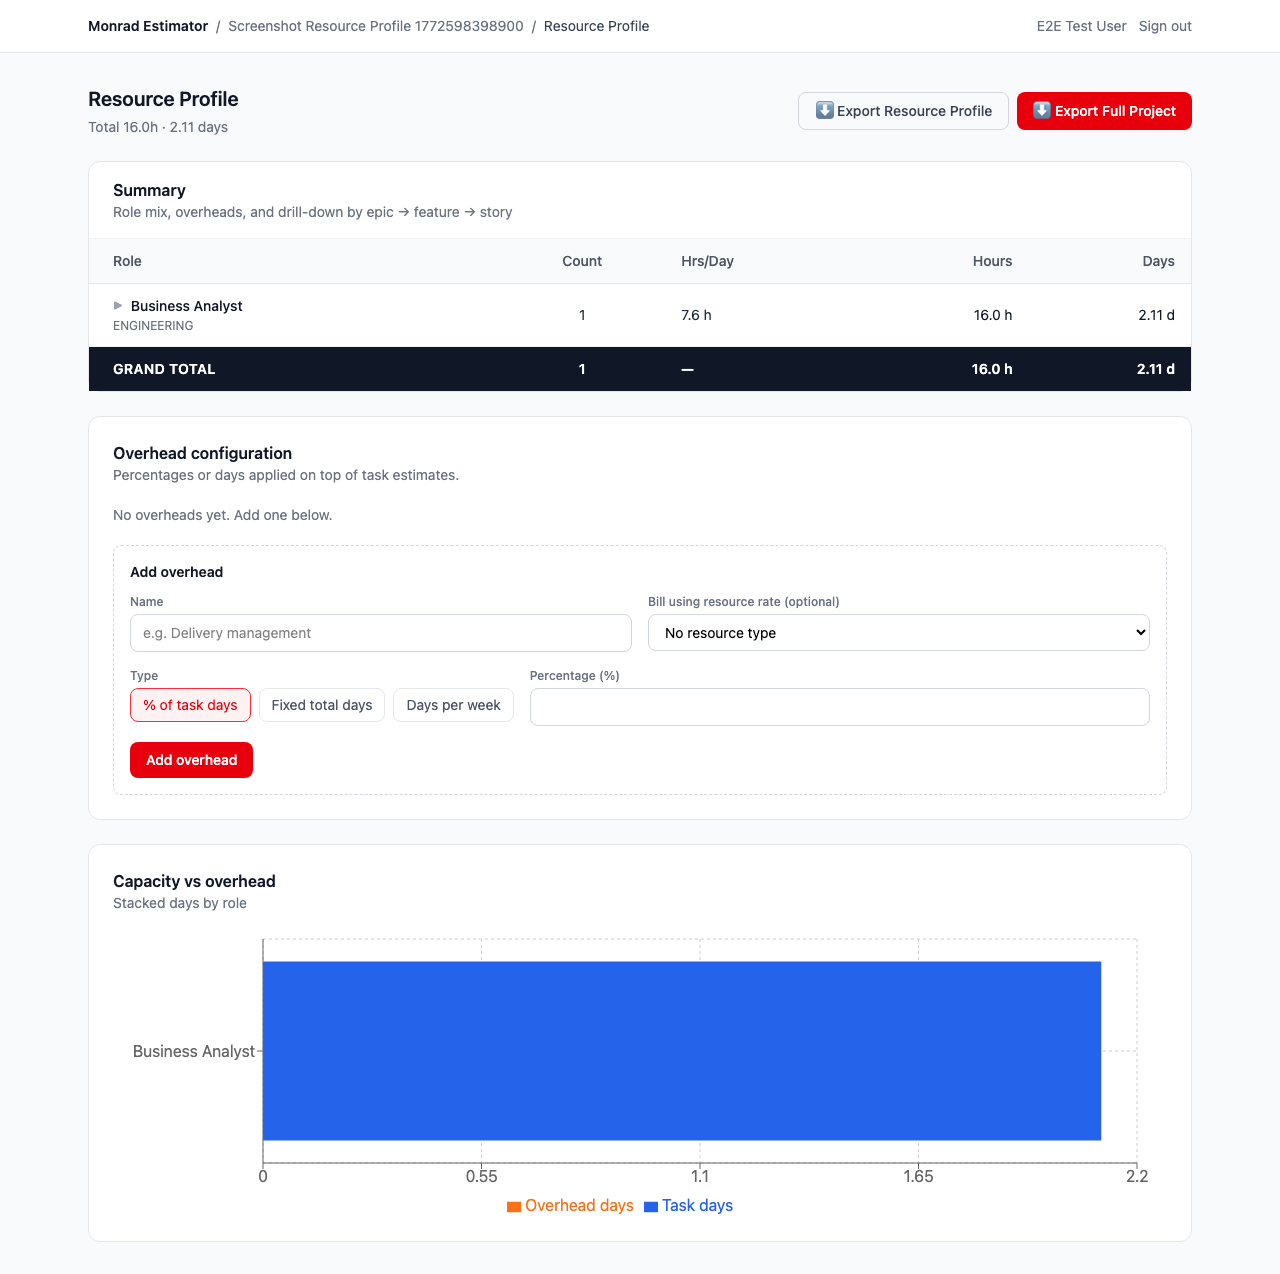
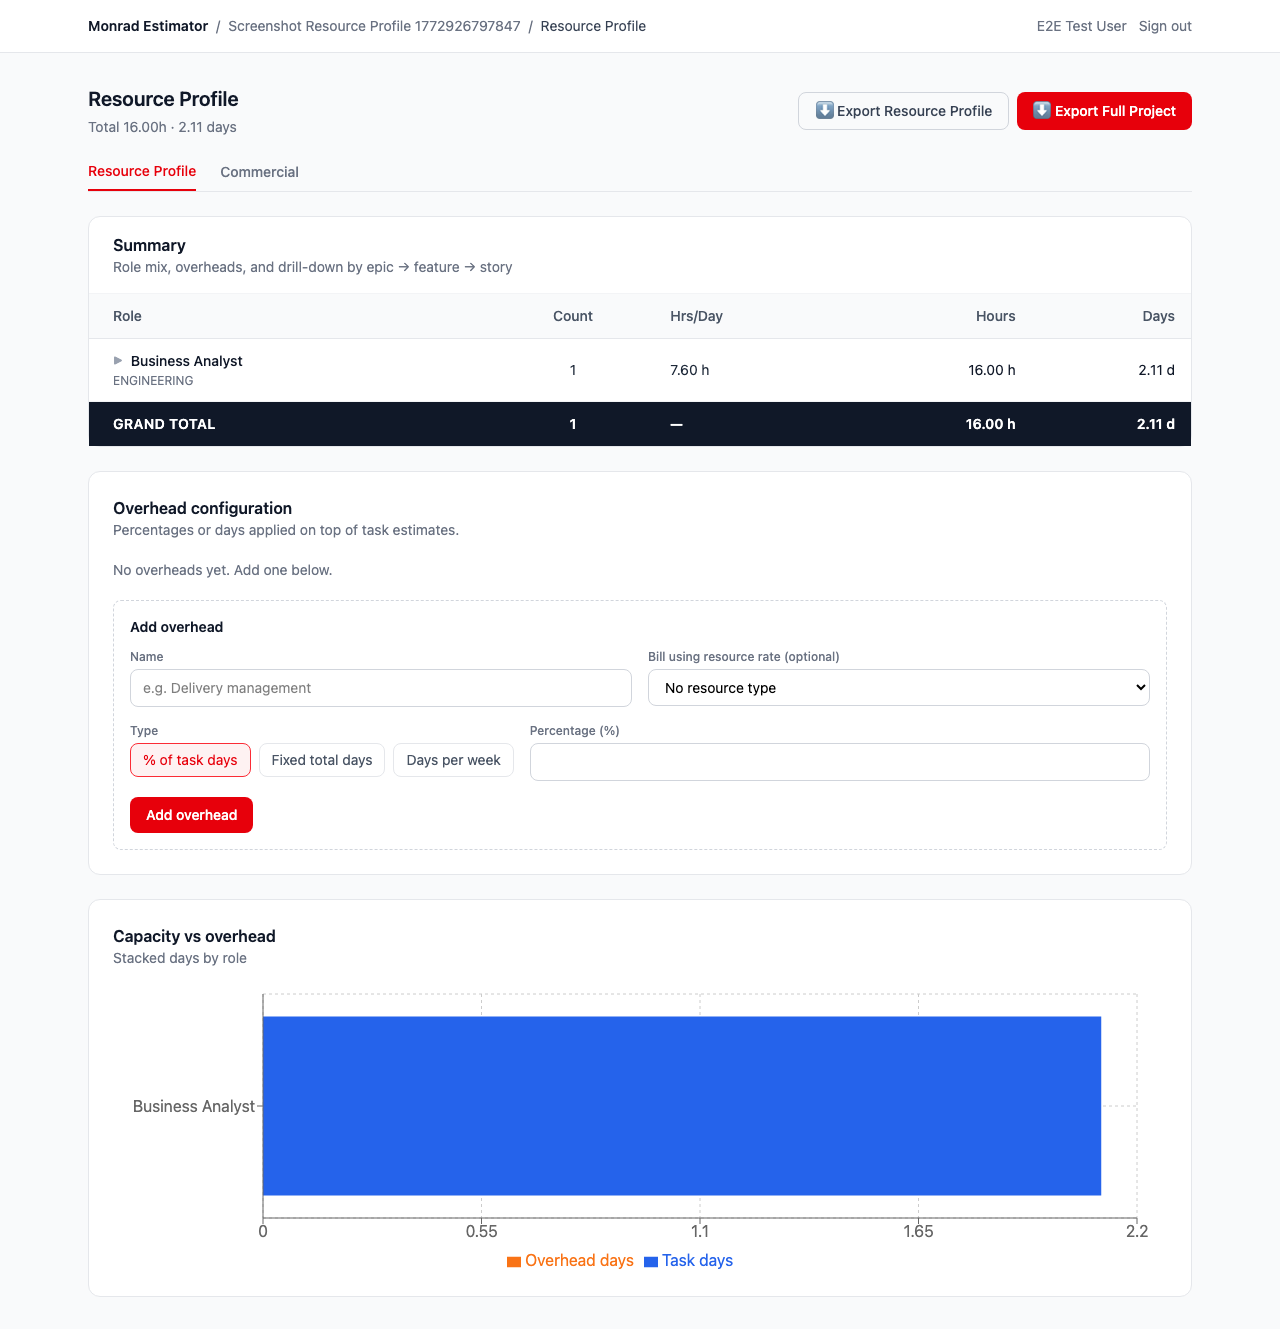
test(#8): E2E tests for resource profile, commercial tab, rate cards + updated screenshot
- 6 new Playwright tests: page load, tab bar, count display, named resources, discounts, rate cards
- Updated resource-profile screenshot
- Updated TESTS.md with new test section

diff --git a/e2e/tests/resource-profile.spec.ts b/e2e/tests/resource-profile.spec.ts
@@ -4,20 +4,58 @@ import path from 'path'
 import fs from 'fs'
 import os from 'os'
 
+/* ────────────────────────────────────────────────────────────────────────────
+ * CSV seed data — 14-column format with Type column
+ * Provides a Developer task and a Tech Lead task so the Resource Profile
+ * summary table has at least two resource type rows after import.
+ * ──────────────────────────────────────────────────────────────────────────── */
+const CSV_CONTENT = [
+  'Type,Epic,Feature,Story,Task,Template,ResourceType,HoursEffort,DurationDays,Description,Assumptions,EpicStatus,FeatureStatus,StoryStatus',
+  'Epic,Platform Build,,,,,,,,,,,,',
+  'Feature,Platform Build,Core API,,,,,,,,,,,',
+  'Story,Platform Build,Core API,API Design,,,,,,,,,,',
+  'Task,Platform Build,Core API,API Design,Design endpoints,,Developer,24,3,,,,,',
+  'Task,Platform Build,Core API,API Design,Review spec,,Tech Lead,8,1,,,,,',
+].join('\n')
+
+/**
+ * Navigate to the Backlog, seed via CSV import, then navigate to the
+ * Resource Profile page. Returns the project ID extracted from the URL.
+ */
+async function seedAndNavigateToResourceProfile(
+  page: import('@playwright/test').Page
+) {
+  // ── Import CSV into the backlog ───────────────────────────────────────
+  await page.getByRole('button', { name: /backlog/i }).click()
+  await expect(page.getByRole('button', { name: /import csv/i })).toBeVisible({ timeout: 8_000 })
+
+  const tmpFile = path.join(os.tmpdir(), `res-profile-seed-${Date.now()}.csv`)
+  fs.writeFileSync(tmpFile, CSV_CONTENT)
+
+  await page.getByRole('button', { name: /import csv/i }).click()
+  await page.locator('input[type="file"]').setInputFiles(tmpFile)
+  fs.unlinkSync(tmpFile)
+
+  // Two-step staging flow
+  await page.getByRole('button', { name: /review & confirm/i }).click({ timeout: 10_000 })
+  await page.getByRole('button', { name: /import backlog/i }).click({ timeout: 10_000 })
+  await expect(page.getByText('Platform Build')).toBeVisible({ timeout: 10_000 })
+
+  // ── Navigate to Resource Profile ──────────────────────────────────────
+  const url = page.url()
+  const projectId = url.match(/\/projects\/([^/]+)/)?.[1]
+  await page.goto(`/projects/${projectId}/resource-profile`)
+  await expect(
+    page.getByRole('heading', { name: /resource profile/i })
+  ).toBeVisible({ timeout: 10_000 })
+
+  return projectId!
+}
+
+/* ======================================================================== *
+ *  Original test — kept intact                                             *
+ * ======================================================================== */
 test.describe('Resource Profile', () => {
-  /**
-   * Verifies that the Resource Profile summary table renders an editable number
-   * input for resource types that belong to the GOVERNANCE or PROJECT_MANAGEMENT
-   * category.
-   *
-   * Background: Each project gets default resource types created on setup, including:
-   *   - 'Tech Governance'  (category: GOVERNANCE)
-   *   - 'Project Manager'  (category: PROJECT_MANAGEMENT)
-   *
-   * The editable count `<input type="number">` only renders for those categories.
-   * The summary table itself only renders when at least one task exists in the backlog,
-   * so this test seeds the project via CSV import before navigating to the page.
-   */
   test('can edit count for non-engineering resource types', async ({ page }) => {
     const suffix = Date.now()
     const projectName = `E2E ResProfile ${suffix}`
@@ -26,17 +64,11 @@ test.describe('Resource Profile', () => {
     await login(page)
     await createProject(page, projectName)
 
-    // ── Step 1: Navigate to Backlog ──────────────────────────────────────────
     await page.getByRole('heading', { name: projectName, exact: true }).first().click()
     await page.getByRole('button', { name: /backlog/i }).waitFor({ timeout: 8_000 })
     await page.getByRole('button', { name: /backlog/i }).click()
     await expect(page.getByRole('button', { name: /import csv/i })).toBeVisible({ timeout: 8_000 })
 
-    // ── Step 2: Seed via CSV import ──────────────────────────────────────────
-    // A task with ResourceType "Project Manager" maps to the PROJECT_MANAGEMENT
-    // category resource type that is created automatically for every project.
-    // The summary table will then render an editable <input> in the Count column
-    // for that row.
     const headers = [
       'Epic', 'Feature', 'Story', 'Task', 'ResourceType',
       'HoursExtraSmall', 'HoursSmall', 'HoursMedium', 'HoursLarge', 'HoursExtraLarge',
@@ -53,41 +85,168 @@ test.describe('Resource Profile', () => {
     await fileInput.setInputFiles(tmpFile)
     fs.unlinkSync(tmpFile)
 
-    // Two-step import modal: staging → confirm → import
     await page.getByRole('button', { name: /review & confirm/i }).click({ timeout: 10_000 })
     await page.getByRole('button', { name: /import backlog/i }).click({ timeout: 10_000 })
     await expect(page.getByText('E2E ResEpic')).toBeVisible({ timeout: 10_000 })
 
-    // ── Step 3: Navigate to Resource Profile ────────────────────────────────
-    // Strip /backlog from the current URL to get the project hub URL, then
-    // click the Resource Profile hub button.
     const hubUrl = page.url().replace('/backlog', '')
     await page.goto(hubUrl)
     await page.getByRole('button', { name: /resource profile/i }).waitFor({ timeout: 8_000 })
     await page.getByRole('button', { name: /resource profile/i }).click()
 
-    // ── Step 4: Assert the page heading loads ────────────────────────────────
     await expect(
       page.getByRole('heading', { name: /resource profile/i })
     ).toBeVisible({ timeout: 8_000 })
 
-    // ── Step 5: Wait for the summary table to load and find the "Project Manager" row ─
-    // The profile API maps the task's resource type to the PROJECT_MANAGEMENT
-    // category row. Wait generously because the profile query runs after page load.
-    // Use a <tr> filter — chart SVG and overhead form don't use table rows, so this
-    // is unambiguous. Add .first() in case multiple rows share the text prefix.
     const pmRow = page.locator('tr').filter({ hasText: /project manager/i }).first()
     await expect(pmRow).toBeVisible({ timeout: 15_000 })
-
-    // ── Step 6: Assert the count cell for "Project Manager" is an editable input ──
-    // The ResourceProfilePage renders `<input type="number" className="w-16 …">` only
-    // for GOVERNANCE and PROJECT_MANAGEMENT rows; Engineering rows show a plain number.
 
     const countInput = pmRow.locator('input[type="number"]')
     await expect(countInput).toBeVisible({ timeout: 8_000 })
     await expect(countInput).toBeEditable()
-
-    // Sanity-check: the default count value is 1
     await expect(countInput).toHaveValue('1')
+  })
+})
+
+/* ======================================================================== *
+ *  Enhanced Resource Profile tests                                         *
+ * ======================================================================== */
+test.describe('Resource Profile — enhanced', () => {
+  let projectName: string
+
+  test.beforeEach(async ({ page }) => {
+    projectName = `E2E ResProfile Enhanced ${Date.now()}`
+    await login(page)
+    await createProject(page, projectName)
+    await page.getByRole('heading', { name: projectName, exact: true }).first().click()
+    await page.getByRole('button', { name: /backlog/i }).waitFor({ timeout: 8_000 })
+    await seedAndNavigateToResourceProfile(page)
+  })
+
+  test('resource profile page loads with resource types', async ({ page }) => {
+    // Heading should already be visible from seedAndNavigateToResourceProfile
+    await expect(
+      page.getByRole('heading', { name: /resource profile/i })
+    ).toBeVisible()
+
+    // At least one resource type row should appear — Developer from the CSV seed
+    const developerRow = page.locator('tr').filter({ hasText: /developer/i }).first()
+    await expect(developerRow).toBeVisible({ timeout: 15_000 })
+  })
+
+  test('tab bar shows Resource Profile and Commercial tabs', async ({ page }) => {
+    // Wait for summary table to load first
+    await expect(
+      page.locator('tr').filter({ hasText: /developer/i }).first()
+    ).toBeVisible({ timeout: 15_000 })
+
+    // Both tabs should be visible
+    const rpTab = page.getByRole('button', { name: /resource profile/i }).first()
+    const commercialTab = page.getByRole('button', { name: /commercial/i })
+    await expect(rpTab).toBeVisible()
+    await expect(commercialTab).toBeVisible()
+
+    // Click Commercial tab — verify commercial content appears
+    await commercialTab.click()
+    await expect(
+      page.getByRole('heading', { name: /cost summary/i })
+    ).toBeVisible({ timeout: 10_000 })
+
+    // Click back to Resource Profile tab — verify summary table reappears
+    await page.getByRole('button', { name: /resource profile/i }).first().click()
+    await expect(
+      page.getByRole('heading', { name: /summary/i }).first()
+    ).toBeVisible({ timeout: 10_000 })
+  })
+
+  test('resource count display shows formatted values', async ({ page }) => {
+    // Wait for the Developer row (has tasks from seeded data)
+    const developerRow = page.locator('tr').filter({ hasText: /developer/i }).first()
+    await expect(developerRow).toBeVisible({ timeout: 15_000 })
+
+    // The row should display hours and days values formatted with 2 decimal places
+    // e.g. "24.00" hours or "3.00" days — look for the pattern in the row text
+    const rowText = await developerRow.textContent()
+    expect(rowText).toMatch(/\d+\.\d{2}/)
+  })
+
+  test('named resources — add person', async ({ page }) => {
+    // Wait for the Developer resource type row in the summary table
+    const developerRow = page.locator('tr').filter({ hasText: /developer/i }).first()
+    await expect(developerRow).toBeVisible({ timeout: 15_000 })
+
+    // The toggle is the resource name <span> inside the row (e.g. "Developer").
+    // Click it to expand the named-resources panel below.
+    const nameSpan = developerRow.locator('span', { hasText: /developer/i }).first()
+    await nameSpan.click()
+
+    // After expansion the "Named Resources" heading appears in the expanded panel
+    await expect(
+      page.getByRole('heading', { name: /named resources/i })
+    ).toBeVisible({ timeout: 10_000 })
+
+    // Click the "+ Add person" button to create a named resource
+    const addPersonBtn = page.getByRole('button', { name: /add person/i })
+    await expect(addPersonBtn).toBeVisible({ timeout: 5_000 })
+    await addPersonBtn.click()
+
+    // A new row should appear with the default name "New person" in an input
+    await expect(
+      page.locator('input[value="New person"]').first()
+    ).toBeVisible({ timeout: 10_000 })
+  })
+
+  test('commercial tab — discount management', async ({ page }) => {
+    // Wait for page to fully load
+    await expect(
+      page.locator('tr').filter({ hasText: /developer/i }).first()
+    ).toBeVisible({ timeout: 15_000 })
+
+    // Switch to Commercial tab
+    await page.getByRole('button', { name: /commercial/i }).click()
+    await expect(
+      page.getByRole('heading', { name: /cost summary/i })
+    ).toBeVisible({ timeout: 10_000 })
+
+    // Look for the Project Discounts section
+    await expect(
+      page.getByRole('heading', { name: /project discounts/i })
+    ).toBeVisible({ timeout: 10_000 })
+
+    // Click "+ Add Discount" button
+    const addDiscountBtn = page.getByRole('button', { name: /add discount/i })
+    await expect(addDiscountBtn).toBeVisible()
+    await addDiscountBtn.click()
+
+    // Verify the add discount form appears with label input and type dropdown
+    await expect(
+      page.getByPlaceholder(/early bird/i)
+    ).toBeVisible({ timeout: 5_000 })
+
+    // Type dropdown should have "Percentage" option
+    const typeSelect = page.locator('select').filter({ hasText: /percentage/i }).first()
+    await expect(typeSelect).toBeVisible()
+  })
+})
+
+/* ======================================================================== *
+ *  Rate Cards page                                                         *
+ * ======================================================================== */
+test.describe('Rate Cards', () => {
+  test('rate cards page loads with create button', async ({ page }) => {
+    await login(page)
+
+    // Navigate to rate cards page
+    await page.goto('/rate-cards')
+
+    // Verify heading
+    await expect(
+      page.getByRole('heading', { name: /rate cards/i })
+    ).toBeVisible({ timeout: 10_000 })
+
+    // Verify "+ Create Rate Card" button is visible
+    await expect(
+      page.getByRole('button', { name: /create rate card/i })
+    ).toBeVisible()
   })
 })

diff --git a/client/src/pages/ResourceProfilePage.tsx b/client/src/pages/ResourceProfilePage.tsx
@@ -1077,7 +1077,7 @@ export default function ResourceProfilePage() {
                   <CartesianGrid strokeDasharray="3 3" />
                   <XAxis type="number" />
                   <YAxis type="category" dataKey="name" width={150} />
-                  <Tooltip formatter={(value: number) => formatNumber(value)} />
+                  <Tooltip formatter={(value) => formatNumber(Number(value))} />
                   <Legend />
                   <Bar dataKey="taskDays" name="Task days" stackId="a" fill="#2563eb" />
                   <Bar dataKey="overheadDays" name="Overhead days" stackId="a" fill="#f97316" />

diff --git a/e2e/TESTS.md b/e2e/TESTS.md
@@ -99,11 +99,29 @@ Selectors target the SVG-based Gantt introduced after the CSS-grid rewrite. Each
 
 ---
 
-### `resource-profile.spec.ts` — Resource Profile (1 test)
+### `resource-profile.spec.ts` — Resource Profile & Commercial (7 tests)
+
+#### `Resource Profile` describe block (1 test — original)
 
 | Test | Description |
 |------|-------------|
 | can edit count for non-engineering resource types | Seeds a task with resource type "Project Manager" via CSV import, navigates to Resource Profile, and asserts the Count cell for that row is an editable `<input type="number">` (only rendered for GOVERNANCE/PROJECT_MANAGEMENT categories) |
+
+#### `Resource Profile — enhanced` describe block (5 tests)
+
+| Test | Description |
+|------|-------------|
+| resource profile page loads with resource types | Seeds backlog with Developer + Tech Lead tasks via CSV, navigates to `/projects/:id/resource-profile`, verifies "Resource Profile" heading and Developer resource type row appear |
+| tab bar shows Resource Profile and Commercial tabs | Verifies both "Resource Profile" and "Commercial" tab buttons are visible; clicks Commercial → asserts "Cost Summary" heading; clicks back → asserts "Summary" heading |
+| resource count display shows formatted values | Checks that the Developer resource type row text contains values formatted with 2 decimal places (e.g. `24.00`) |
+| named resources — add person | Clicks the Developer resource name to expand the named resources panel; verifies "Named Resources" heading appears; clicks "+ Add person" button; asserts a new input with value "New person" appears |
+| commercial tab — discount management | Switches to Commercial tab; verifies "Cost Summary" and "Project Discounts" headings; clicks "+ Add Discount"; asserts the discount form appears with label input and type dropdown |
+
+#### `Rate Cards` describe block (1 test)
+
+| Test | Description |
+|------|-------------|
+| rate cards page loads with create button | Navigates to `/rate-cards`; verifies "Rate Cards" heading and "+ Create Rate Card" button are visible |
 
 ---
 
